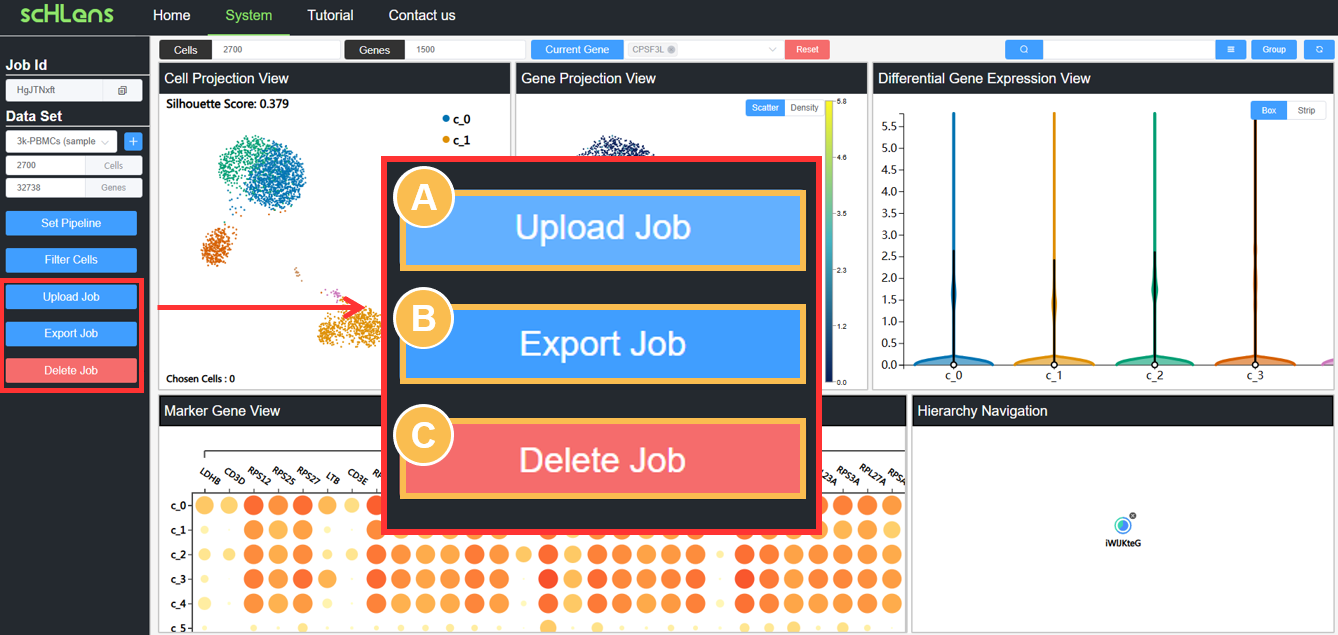
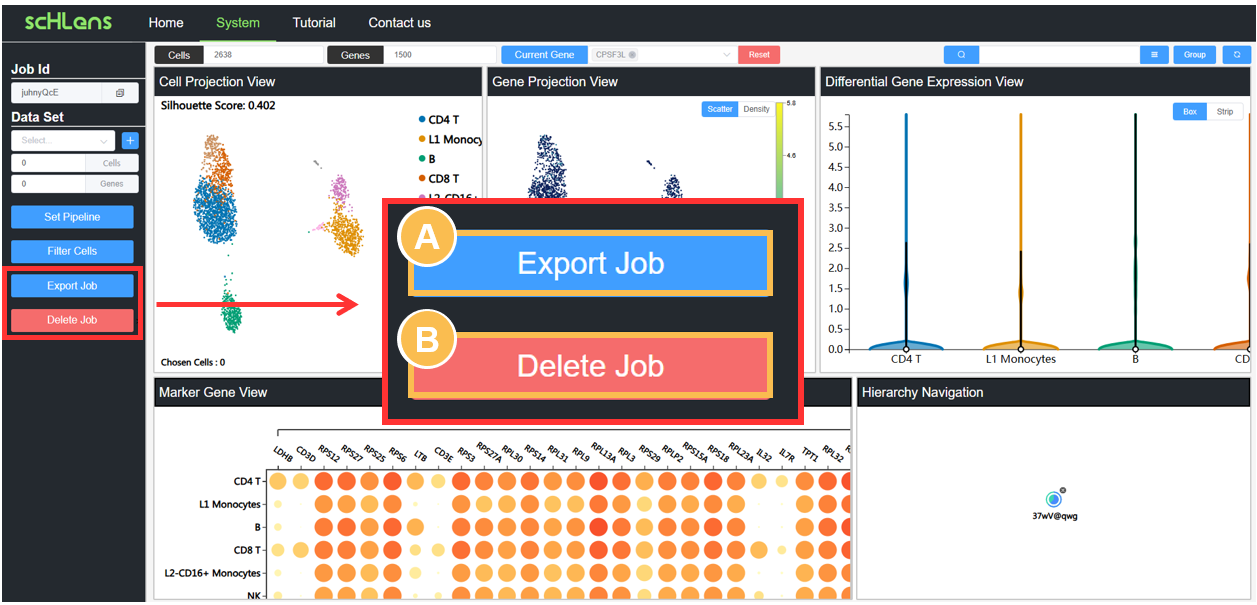
modify tutorial, README.md. and some tips

diff --git a/scHLens_fe/src/components/ControlPanel/PipelineEntity/TransformationParams.vue b/scHLens_fe/src/components/ControlPanel/PipelineEntity/TransformationParams.vue
@@ -65,7 +65,7 @@
                     <el-form-item class="form-item" label="top Genes">
                         <div style="display:flex;justify-content:space-between;align-items:center">
                             <el-input v-model="featureParams['HighlyVariable'].topGenes" size="mini" style="width: 110px;"></el-input>
-                            <el-tooltip content="Number of highly-variable genes to keep" placement="right">
+                            <el-tooltip content="The number of top genes (ranked by variability) to keep. This parameter cannot be set together with 'min Mean', 'max Mean', 'min Dispersion', or 'max Dispersion'." placement="right">
                                 <i class="el-icon-question"></i>
                             </el-tooltip>
                         </div>
@@ -73,7 +73,7 @@
                     <el-form-item class="form-item" label="min Mean">
                         <div style="display:flex;justify-content:space-between;align-items:center">
                             <el-input v-model="featureParams['HighlyVariable'].minMean" size="mini" style="width: 110px;"></el-input>
-                            <el-tooltip content="min Mean" placement="right">
+                            <el-tooltip content="The lower bound on Mean for a gene. This parameter cannot be set together with 'top Genes'" placement="right">
                                 <i class="el-icon-question"></i>
                             </el-tooltip>
                         </div>
@@ -81,7 +81,7 @@
                     <el-form-item class="form-item" label="max Mean">
                         <div style="display:flex;justify-content:space-between;align-items:center">
                             <el-input v-model="featureParams['HighlyVariable'].maxMean" size="mini" style="width: 110px;"></el-input>
-                            <el-tooltip content="max Mean" placement="right">
+                            <el-tooltip content="The upper bound on Mean for a gene. This parameter cannot be set together with 'top Genes'" placement="right">
                                 <i class="el-icon-question"></i>
                             </el-tooltip>
                         </div>
@@ -89,7 +89,7 @@
                     <el-form-item class="form-item" label="min Disp">
                         <div style="display:flex;justify-content:space-between;align-items:center">
                             <el-input v-model="featureParams['HighlyVariable'].minDisp" size="mini" style="width: 110px;"></el-input>
-                            <el-tooltip content="min Dispersion" placement="right">
+                            <el-tooltip content="The lower bound on Dispersion for a gene. This parameter cannot be set together with 'top Genes'" placement="right">
                                 <i class="el-icon-question"></i>
                             </el-tooltip>
                         </div>
@@ -97,7 +97,7 @@
                     <el-form-item class="form-item" label="max Disp">
                         <div style="display:flex;justify-content:space-between;align-items:center">
                             <el-input v-model="featureParams['HighlyVariable'].maxDisp" size="mini" style="width: 110px;"></el-input>
-                            <el-tooltip content="max Dispersion" placement="right">
+                            <el-tooltip content="The upper bound on Dispersion for a gene. This parameter cannot be set together with 'top Genes'" placement="right">
                                 <i class="el-icon-question"></i>
                             </el-tooltip>
                         </div>

diff --git a/scHLens_fe/src/tutorials/TenterJob.vue b/scHLens_fe/src/tutorials/TenterJob.vue
@@ -25,42 +25,50 @@
       ID is crucial for loading previous jobs.
     </p>
 
-    <h1 id="t_CreateLoadJob">Create a New Job & Load an Existing Job</h1>
+    <h1 id="t_CreateLoadJob">
+      Create a New Job & Load an Existing Job & Use Samples
+    </h1>
     <p class="body">
       <b>Create a New Job</b>: To begin a new analysis, click the green "Create
-      new Job" button (Area B in Figure 1). This action will initiate a new job,
+      new Job" button (Area C in Figure 1). This action will initiate a new job,
       ready to record the user's analysis process and results.
     </p>
     <p class="body">
       <b>Load an Existing Job</b>: To reproduce a previous work, enter the
-      corresponding Job ID into the designated text box (Area C in Figure 1) and
+      corresponding Job ID into the designated text box (Area B in Figure 1) and
       click the blue "Load Exist Job" button (Area D in Figure 1) . Then this
       job will be loaded, allowing for continuation from the last auto-saved
       state.
     </p>
-
-    <h1 id="t_ExportImportJob">Export the Job & Import the Job</h1>
+    <p class="body">
+      <b>Use Samples</b>: scHLens provides three Sample Jobs to illustrate the
+      cases in manuscript. You can click the 'Use Samples' button (Bottom-Right
+      corner in Figure 1) to select a sample to load.
+    </p>
+    <h1 id="t_ExportImportJob">
+      Export the Job & Import the Job
+    </h1>
     <div class="image-container">
       <img class="image" src="tutorials/img/Job.png" />
-      <b class="image-title">Figure 2. Upload / Export / Delete job</b>
+      <b class="image-title">Figure 2. Export / Delete job</b>
     </div>
     <p class="body">
       If you want to migrate a job to another deployment version of scHLens or
       save a job's current state for future rollback, you can export the current
       state of the job as an importable local file. To export the job, click the
-      blue 'Export Job' button (Area B in Figure 2), and you will receive a
+      blue 'Export Job' button (Area A in Figure 2), and you will receive a
       compressed job file. To import the local file into a different system,
-      click the blue 'Upload Job' button (Area A in Figure 2), select the file,
-      and you will be able to access this job in the new system via the same Job
-      ID. If a job with the same name already exists in the new system, the
-      imported job will overwrite the original one.
+      click the blue 'Import Saved Job' button (Area E in Figure 1), select the
+      file, and you will be able to access this job in the new system via the
+      same Job ID. If a job with the same name already exists in the new system,
+      the imported job will overwrite the original one.
     </p>
 
     <h1 id="t_DeleteJob">Delete Job</h1>
     <p class="body">
       To ensure data security, you can delete your job after completing the
-      analysis. You just need to click the red 'Delete' button (Area C in Figure
-      2).
+      analysis. You just need to click the red 'Delete Job' button (Area B in
+      Figure 2).
     </p>
   </div>
 </template>
@@ -91,9 +99,9 @@ h1 {
   margin-top: 60px;
 }
 
-h2{
+h2 {
   margin-top: 40px;
-  font-size:29px
+  font-size: 29px;
 }
 
 .body {

diff --git a/scHLens_fe/src/tutorials/TIntroduction.vue b/scHLens_fe/src/tutorials/TIntroduction.vue
@@ -1,25 +1,40 @@
 <template>
-    <div class="container">
-        <b class="title">Introduction</b>
-        <p class="body">scHLens is an interactive analysis platform for hierarchically and interactively exploring
-            cellular heterogeneity of scRNA-seq dataset, with various visualization views. scHLens focused on the cell
-            type annotation of scRNA-seq. The main novelty of scHLens includes two aspects. Firstly, for each layer,
-            scHLens provided a customized pipeline for gene selection, cell visualization, clustering, differential
-            expressed gene analysis and cell type annotation. Then, scHLens provided a hierarchical analytical mode to
-            explore cellular heterogeneity, and proposed a novel hierarchically visualization method to integrate
-            different levels of cells subgroups. This web platform allows users to easily select, export, delete and
-            reanalyze specific cell groups of their interest. </p>
-        <p class="body">The system's workflow is composed of five steps: <b>Enter a Job</b>, <b>Select a Dataset</b>,
-            <b>Start the User-defined Pipeline</b>, <b>Analyze with Interactive Views</b>, <b>Hierarchically
-                Explore</b>. Each step will be explained in detail below.</p>
-    </div>
+  <div class="container">
+    <b class="title">Introduction</b>
+    <p class="body">
+      scHLens is an interactive analysis platform for hierarchically and
+      interactively exploring cellular heterogeneity of scRNA-seq dataset, with
+      various visualization views. scHLens focused on the cell type annotation
+      of scRNA-seq. The main novelty of scHLens includes two aspects. Firstly,
+      for each layer, scHLens provided a customized pipeline for gene selection,
+      cell visualization, clustering, differential expressed gene analysis and
+      cell type annotation. Then, scHLens provided a hierarchical analytical
+      mode to explore cellular heterogeneity, and proposed a novel
+      hierarchically visualization method to integrate different levels of cells
+      subgroups. This web platform allows users to easily select, export, delete
+      and reanalyze specific cell groups of their interest.
+    </p>
+    <p class="body">
+      The system's workflow is composed of five steps: <b>Enter a Job</b>,
+      <b>Select a Dataset</b>, <b>Start the User-defined Pipeline</b>,
+      <b>Analyze with Interactive Views</b>, <b>Hierarchically Explore</b>. Each
+      step will be explained in detail below.
+    </p>
+    <p class="body">
+      <b
+        >To better demonstrate the cases in our manuscript, we have integrated
+        predefined demos into scHLens. For details on how to use them, please
+        refer to "Enter a Job - Create a New Job & Load an Existing Job & Use
+        Samples - Use Samples".</b
+      >
+    </p>
+  </div>
 </template>
 
 <script>
 export default {
-    name: "TIntroduction",
-
-}
+  name: "TIntroduction",
+};
 </script>
 
 <style lang="less" scoped>
@@ -42,9 +57,9 @@ h1 {
   margin-top: 60px;
 }
 
-h2{
+h2 {
   margin-top: 40px;
-  font-size:29px
+  font-size: 29px;
 }
 
 .body {

diff --git a/scHLens_fe/src/tutorials/THierarchicalExploration.vue b/scHLens_fe/src/tutorials/THierarchicalExploration.vue
@@ -2,15 +2,19 @@
   <div class="container">
     <b class="title">Hierarchical Exploration</b>
     <p class="body">
-      Because of the hierarchical and complex nature of cell types, a comprehensive
-      analysis of scRNA-seq data is challenging to achieve in a single
-      analytical run. Therefore, employing a hierarchical and interactive
+      Because of the hierarchical and complex nature of cell types, a
+      comprehensive analysis of scRNA-seq data is challenging to achieve in a
+      single analytical run. Therefore, employing a hierarchical and interactive
       exploration way is more appropriate.
     </p>
     <p class="body">
       The workflow of Hierarchical Exploration is simple:
-      <b>Create Local Plot</b>, <b>Find good pattern in Local Plot</b> and then
-      <b>Merge the Local Results</b>.
+      <b>Annotate groups in the Global Plot</b>, <b>Create Local Plot</b>,
+      <b>Find good pattern and Annotate groups in Local Plot</b> and then
+      <b>Merge the Local Results</b>. For the process of "Annotate groups in
+      Global Plot" and "Annotate groups in Local Plot", please refer to "Analysis
+      with Views - Interactions - Annotation." We will describe the remaining
+      steps in detail below.
     </p>
     <p class="body">
       <b>Global Plot</b> refers to the initial views created after the first
@@ -22,7 +26,7 @@
       Additionally, cells can be selected from a Local Plot to create subsequent
       Local Plots. This creation process forms a tree-like structure, which is
       represented using Hierarchy Navigation. Detailed explanations can be found
-      in the section "Hierarchical Exploration - Hierarchical Tree."
+      in the section "Hierarchical Exploration - Hierarchical Navigation."
     </p>
 
     <h1 id="t_CrateLocalPlot">Create Local Plot & Find Good Pattern</h1>
@@ -82,7 +86,9 @@
       <b class="image-title">Figure 2. Hierarchy Navigation</b>
     </div>
 
-    <h1 id="t_DiscoverCorrespondence">Discover the correspondence of cells across different nodes</h1>
+    <h1 id="t_DiscoverCorrespondence">
+      Discover the correspondence of cells across different nodes
+    </h1>
     <p class="body">
       If you want to know the correspondence of cells across different nodes,
       you should choose the "Discover Correspondence" option in the context menu
@@ -145,7 +151,6 @@
       <img class="image" src="tutorials/img/merge-options.png" />
       <b class="image-title">Figure 6. Merge Options</b>
     </div>
-
   </div>
 </template>
 

diff --git a/scHLens_fe/src/components/ControlPanel/PipelineEntity/MarkerGenesParams.vue b/scHLens_fe/src/components/ControlPanel/PipelineEntity/MarkerGenesParams.vue
@@ -7,7 +7,7 @@
                         <el-select v-model="markerMethod" placeholder="Select..." size="mini" style="width:110px">
                             <el-option v-for="item in markerOptions" :key="item.value" :label="item.label" :value="item.value"></el-option>
                         </el-select>
-                        <el-tooltip content="marker gene method" placement="right">
+                        <el-tooltip content="DEG Identification method" placement="right">
                             <i class="el-icon-question"></i>
                         </el-tooltip>
                     </div>
@@ -15,7 +15,7 @@
                 <el-form-item class="form-item" label="nGenes">
                     <div style="display:flex;justify-content:space-between;align-items:center">
                         <el-input v-model="nGenes" size="mini" style="width: 110px;"></el-input>
-                        <el-tooltip content="nGenes" placement="right">
+                        <el-tooltip content="The number of DEGs" placement="right">
                             <i class="el-icon-question"></i>
                         </el-tooltip>
                     </div>

diff --git a/scHLens_fe/src/Tutorial.vue b/scHLens_fe/src/Tutorial.vue
@@ -18,7 +18,7 @@
                         <span class="menu-item-text-1" slot="title">Enter a Job</span>
                         <el-menu-item index="/tutorial/enterjob/1" @click="scrollTo('t_WhatisJob')">What is Job?</el-menu-item>
                         <el-menu-item index="/tutorial/enterjob/2" @click="scrollTo('t_WhatisJobID')">What is Job ID?</el-menu-item>
-                        <el-menu-item index="/tutorial/enterjob/3" @click="scrollTo('t_CreateLoadJob')">Create a New Job & Load an Existing Job</el-menu-item>
+                        <el-menu-item index="/tutorial/enterjob/3" @click="scrollTo('t_CreateLoadJob')">Create a New Job & Load an Existing Job & Use Samples</el-menu-item>
                         <el-menu-item index="/tutorial/enterjob/4" @click="scrollTo('t_ExportImportJob')">Export the Job & Import the Job</el-menu-item>
                         <el-menu-item index="/tutorial/enterjob/5" @click="scrollTo('t_DeleteJob')">Delete Job</el-menu-item>
                     </el-submenu>

diff --git a/scHLens_fe/src/Home.vue b/scHLens_fe/src/Home.vue
@@ -12,7 +12,12 @@
             alt="Flag Counter"
             border="0"
         /></a> -->
-        <a href='https://clustrmaps.com/site/1c56d'  title='Visit tracker'><img src='//clustrmaps.com/map_v2.png?cl=ffffff&w=550&t=tt&d=2KYfHIZwB-VTu7d5cWrNgBIQJMtFcIzN8wpfedn98qM&co=2d78ad&ct=ffffff'/></a>      </div>
+        <!-- <a href='https://clustrmaps.com/site/1c56d'  title='Visit tracker'>
+          <img src='//clustrmaps.com/map_v2.png?cl=ffffff&w=550&t=tt&d=2KYfHIZwB-VTu7d5cWrNgBIQJMtFcIzN8wpfedn98qM&co=2d78ad&ct=ffffff'/>
+        </a> -->
+          <img src='//clustrmaps.com/map_v2.png?cl=ffffff&w=550&t=tt&d=2KYfHIZwB-VTu7d5cWrNgBIQJMtFcIzN8wpfedn98qM&co=2d78ad&ct=ffffff'/>
+
+        </div>
       <div class="content-box content2">
         <div class="content-box-title">
           <b class="content-box-title-text">What is scHLens?</b>

diff --git a/scHLens_fe/src/tutorials/TStartaAnalysisPipeline.vue b/scHLens_fe/src/tutorials/TStartaAnalysisPipeline.vue
@@ -8,7 +8,7 @@
     </p>
     <ol>
       <li class="body">
-        <b>Sampling</b>: Sample the dataset to speed up the pipeline and reduce
+        <b>Downsampling</b>: Downsample the dataset to speed up the pipeline and reduce
         memory usage.
       </li>
       <li class="body">
@@ -32,7 +32,7 @@
         assisting analysts in identifying cell types.
       </li>
       <li class="body">
-        <b>Marker Identification</b>: Discover marker genes that characterize
+        <b>Differential Expressed Gene Identification (DEG Identification)</b>: Discover differential expressed genes that characterize
         each cell group.
       </li>
     </ol>

diff --git a/scHLens_fe/src/tutorials/TselectDataset.vue b/scHLens_fe/src/tutorials/TselectDataset.vue
@@ -57,7 +57,12 @@
         You can find this dataset in the dataset dropdown menu.
       </li>
     </ol>
-
+    <a class="body">
+      <b class="body">Note:</b>&nbsp;&nbsp;The "Stratified" method in the
+      Downsampling module of the pipeline requires a dataset with labels. If you
+      want to upload a dataset with labels, you should upload it in h5ad format
+      and set the labels in AnnData.obs['label'].
+    </a>
   </div>
 </template>
 
@@ -87,9 +92,9 @@ h1 {
   margin-top: 60px;
 }
 
-h2{
+h2 {
   margin-top: 40px;
-  font-size:29px
+  font-size: 29px;
 }
 
 .body {

diff --git a/scHLens_fe/src/tutorials/TAnalysiswithViews.vue b/scHLens_fe/src/tutorials/TAnalysiswithViews.vue
@@ -290,7 +290,7 @@
       <li class="body">
         <b>Export group markers</b>: Users can click the group's blue download
         button (such as Area B in Figure 10) to download its marker genes
-        generated by the Marker Identification module in the pipeline. The
+        generated by the DEG Identification module in the pipeline. The
         downloaded files includes two types: global markers and local markers.
         Global markers refer to the marker genes calculated by placing the
         current group at the global root node. Local markers refer to the marker

diff --git a/scHLens_fe/src/components/ControlPanel/BasicControl.vue b/scHLens_fe/src/components/ControlPanel/BasicControl.vue
@@ -442,7 +442,7 @@ export default {
                 {
                     rank:5,
                     id:'MK',
-                    name:"Marker Identification"
+                    name:"DEG Identification"
                 },
                 // {
                 //     rank:7,
@@ -494,7 +494,7 @@ export default {
                 {
                     rank:5,
                     id:'MK',
-                    name:"Marker Identification"
+                    name:"DEG Identification"
                 },
                 // {
                 //     rank:7,

diff --git a/README.md b/README.md
@@ -77,13 +77,17 @@ Then, you can access scHLens via http://localhost:8081 (local) or http://your_ip
   unzip sample.zip -d .
   ```
 
-+ scHLens also provides three demos to 展示the cases in our paper. You can download them from http://www.csuligroup.com:32768/resource/sample_job.zip (`sample_job.rar`)，and then extract the contents into the `scHLens/scHLens_be/sample_job` folder:
+  These datasets will be added to the dataset list of your scHLens.
+
++ scHLens also provides three demos to illustrate the cases in our manuscript. You can download them from http://www.csuligroup.com:32768/resource/sample_job.zip (`sample_job.rar`)，and then extract the contents into the `scHLens/scHLens_be/sample_job` folder:
 
   ```
   cd scHLens/scHLens_be
   wget http://www.csuligroup.com:32768/resource/sample_job.zip
   unzip sample_job.zip -d .
   ```
+
+  These demos can be loaded by 'Use Samples' button in the 'Enter a Job' dialog of scHLens.
 
 
 
@@ -95,7 +99,7 @@ We recommend allocating at least 8GB of memory space and 50GB of disk space for 
 
 ## Online version
 
-
+We provide an online scHLens at http://schlens.csuligroup.com
 
 
 
